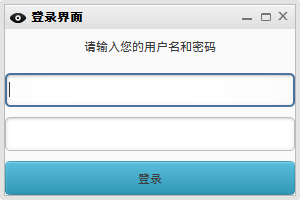
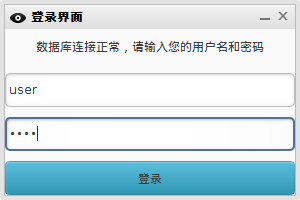
增加截图，整理UI

diff --git a/src/com/student/sb/ui/Main.java b/src/com/student/sb/ui/Main.java
@@ -1,16 +1,118 @@
 package com.student.sb.ui;
 
+import java.awt.FlowLayout;
+import java.awt.GridLayout;
+import java.awt.event.ActionEvent;
+import java.awt.event.ActionListener;
+
+import javax.swing.JButton;
+import javax.swing.JLabel;
+import javax.swing.JPanel;
+import javax.swing.JPasswordField;
+import javax.swing.JTextField;
+
+import org.jb2011.lnf.beautyeye.ch3_button.BEButtonUI;
+import org.jb2011.lnf.beautyeye.ch6_textcoms.BEPasswordFieldUI;
+import org.jb2011.lnf.beautyeye.ch6_textcoms.BETextFieldUI;
+
 /*
  * 学生信息管理系统的主界面
  */
-public class Main extends BaseJFrame {
+public class Main extends BaseJFrame implements ActionListener {
+
+	private JTextField jtf;
+	private JTextField jtf2;
+	private JTextField jtf3;
+	private JTextField jtf4;
 
 	public Main() {
 		this.setTitle("User--学生信息管理系统的主界面");
 		this.setBounds((getScreenWidth() - 600) / 2,
 				(getScreenHeight() - 400) / 2, 600, 400);
-		
+
+		getContentPane().setLayout(new GridLayout(6, 1, 10, 10));
+
+		JLabel jlabel = new JLabel("可以根据学号查询信息", JLabel.CENTER);
+		JLabel jlabel1 = new JLabel("学号：");
+		JLabel jlabel2 = new JLabel("姓名：");
+		JLabel jlabel3 = new JLabel("电话：");
+		JLabel jlabel4 = new JLabel("班级：");
+
+		jtf = new JTextField(27);
+		jtf2 = new JTextField(27);
+		jtf3 = new JTextField(27);
+		jtf4 = new JTextField(27);
+		BETextFieldUI.createUI(jtf);
+		BETextFieldUI.createUI(jtf2);
+		BETextFieldUI.createUI(jtf3);
+		BEPasswordFieldUI.createUI(jtf4);
+
+		JPanel panNum = new JPanel(new FlowLayout());
+		panNum.add(jlabel1);
+		panNum.add(jtf);
+
+		JPanel panName = new JPanel(new FlowLayout());
+		panName.add(jlabel2);
+		panName.add(jtf2);
+
+		JPanel panPhone = new JPanel(new FlowLayout());
+		panPhone.add(jlabel3);
+		panPhone.add(jtf3);
+
+		JPanel panClass = new JPanel(new FlowLayout());
+		panClass.add(jlabel4);
+		panClass.add(jtf4);
+
+		JButton button = new JButton("查询");
+
+		button.setUI(new BEButtonUI()
+				.setNormalColor(BEButtonUI.NormalColor.lightBlue));
+
+		JButton buttonAdd = new JButton("增加");
+
+		buttonAdd.setUI(new BEButtonUI()
+				.setNormalColor(BEButtonUI.NormalColor.lightBlue));
+
+		JButton buttonDel = new JButton("删除");
+
+		buttonDel.setUI(new BEButtonUI()
+				.setNormalColor(BEButtonUI.NormalColor.lightBlue));
+
+		JButton buttonUpdate = new JButton("修改");
+
+		buttonUpdate.setUI(new BEButtonUI()
+				.setNormalColor(BEButtonUI.NormalColor.lightBlue));
+
+		button.addActionListener(this);
+		buttonAdd.addActionListener(this);
+		buttonDel.addActionListener(this);
+		buttonUpdate.addActionListener(this);
+
+		JPanel panButton = new JPanel(new FlowLayout());
+		panButton.add(button);
+		panButton.add(buttonAdd);
+		panButton.add(buttonDel);
+		panButton.add(buttonUpdate);
+
+		getContentPane().add(jlabel);
+		getContentPane().add(panNum);
+		getContentPane().add(panName);
+		getContentPane().add(panPhone);
+		getContentPane().add(panClass);
+		getContentPane().add(panButton);
 		this.setVisible(true);
+	}
+
+	@Override
+	public void actionPerformed(ActionEvent e) {
+		if (e.getActionCommand().equals("")) {
+
+		} else if (e.getActionCommand().equals("")) {
+
+		} else if (e.getActionCommand().equals("")) {
+
+		}
+
 	}
 
 }

diff --git a/src/com/student/sb/entity/User.java b/src/com/student/sb/entity/User.java
@@ -1,0 +1,50 @@
+package com.student.sb.entity;
+
+public class User {
+	public int getId() {
+		return id;
+	}
+
+	public void setId(int id) {
+		this.id = id;
+	}
+
+	public String getUsername() {
+		return username;
+	}
+
+	public void setUsername(String username) {
+		this.username = username;
+	}
+
+	public String getNickname() {
+		return nickname;
+	}
+
+	public void setNickname(String nickname) {
+		this.nickname = nickname;
+	}
+
+	public String getPwd() {
+		return pwd;
+	}
+
+	public void setPwd(String pwd) {
+		this.pwd = pwd;
+	}
+
+	public String getPhone() {
+		return phone;
+	}
+
+	public void setPhone(String phone) {
+		this.phone = phone;
+	}
+
+	public int id;
+	public String username;
+	public String nickname;
+	public String pwd;
+	public String phone;
+
+}

diff --git a/src/com/student/sb/ui/Login.java b/src/com/student/sb/ui/Login.java
@@ -20,10 +20,11 @@ public class Login extends BaseJFrame implements ActionListener{
 		this.setTitle("登录界面");
 		this.setBounds((getScreenWidth() - 300) / 2,
 				(getScreenHeight() - 200) / 2, 300, 200);
+		this.setResizable(false);
 
 		getContentPane().setLayout(new GridLayout(4, 1, 10, 10));
 
-		JLabel jlabel = new JLabel("请输入您的用户名和密码", JLabel.CENTER);
+		JLabel jlabel = new JLabel("数据库连接正常，请输入您的用户名和密码", JLabel.CENTER);
 		jtfuser = new JTextField();
 		jtfpass = new JPasswordField();
 		jtfpass.addActionListener(this);

diff --git a/src/com/student/sb/entity/Student.java b/src/com/student/sb/entity/Student.java
@@ -2,7 +2,15 @@ package com.student.sb.entity;
 
 public class Student {
 	public String name;
+	public String collage;
+	public String grade;
+	public String sclass;
 	public String telphone;
 	public String address;
+	public String sex;
+	public String native_palce;
+	public String nation;
+	public String reward;
+	public String dorm;
 
 }

diff --git a/src/com/student/sb/ui/SqlInit.java b/src/com/student/sb/ui/SqlInit.java
@@ -127,7 +127,7 @@ public class SqlInit extends BaseJFrame {
 		// 测试是否能连接数据库，连接不上则显示数据库界面
 		try {
 			SqlUtils.isConnectSql();
-			Login mJframe = new Login();
+			Main mJframe = new Main();
 		} catch (Exception e) {
 			SqlInit sqlInit = new SqlInit();
 			e.printStackTrace();

diff --git a/src/com/student/sb/utils/PropertiesUtils.java b/src/com/student/sb/utils/PropertiesUtils.java
@@ -45,6 +45,7 @@ public class PropertiesUtils {
 			props.setProperty("DB_USER", User);
 			props.setProperty("DB_PASSWORD", Pass);
 			props.store(fos, "Update" + add + "is" + Port + User);
+			fos.flush();
 			in.close();
 			fos.close();
 			props.clear();

diff --git a/src/com/student/sb/utils/SqlUtils.java b/src/com/student/sb/utils/SqlUtils.java
@@ -33,7 +33,7 @@ public class SqlUtils {
 
 	}
 
-	public void closeConn() {
+	public static void closeConn() {
 		try {
 			conn.close();
 		} catch (SQLException e) {

diff --git a/README.md b/README.md
@@ -5,11 +5,11 @@
 
 此处应该有图片。
 
+![](screenshot/Screenshot3.png)
+
 ![](screenshot/Screenshot1.png)
 
 ![](screenshot/Screenshot2.png)
-
-论打码技术的优雅性，以及避免PS色阶突破、隐写术。
 
 ##功能
 
@@ -28,7 +28,7 @@
 
 可以使用git clone命令下载源码。
 
-	git clone www.git
+	git clone https://github.com/DigDream/SIMS.git
 
 也可通过launchpad直接下载
 
@@ -37,6 +37,45 @@
 ##安装及使用
 
 双击可执行文件，或者根据源码进行编译。
+
+编辑.properties文件，将数据库连接信息填入文件。
+
+数据库表段：
+
+	DROP TABLE IF EXISTS `user`;
+	CREATE TABLE `user_table` (
+	  `id` bigint(20) NOT NULL AUTO_INCREMENT,
+	  `user` varchar(20) NOT NULL,
+	  `pw` varchar(50) NOT NULL,
+	  `name` varchar(20) NOT NULL,
+	  `phone` varchar(20) NOT NULL,
+	  KEY `id` (`id`)
+	) ENGINE=MyISAM AUTO_INCREMENT=912 DEFAULT CHARSET=utf8;
+	
+	DROP TABLE IF EXISTS `software`;
+	CREATE TABLE `software` (
+	  `id` bigint(20) NOT NULL AUTO_INCREMENT,
+	  `collage` varchar(25) DEFAULT NULL,
+	  `grade` varchar(10) DEFAULT NULL,
+	  `class` varchar(10) DEFAULT NULL,
+	  `student_id` varchar(12) DEFAULT NULL,
+	  `name` varchar(12) DEFAULT NULL,
+	  `sex` varchar(5) DEFAULT NULL,
+	  `nation` varchar(7) DEFAULT NULL,
+	  `phone` varchar(12) DEFAULT NULL,
+	  `dorm` varchar(8) DEFAULT NULL,
+	  `politics` varchar(12) DEFAULT NULL,
+	  `identity_id` varchar(21) DEFAULT NULL,
+	  `home_phone` varchar(36) DEFAULT NULL,
+	  `zip` varchar(10) DEFAULT NULL,
+	  `address` varchar(90) DEFAULT NULL,
+	  `native_palce` varchar(59) DEFAULT NULL,
+	  `family_backgrond` varchar(250) DEFAULT NULL,
+	  `reward` varchar(250) DEFAULT NULL,
+	  `other` varchar(250) DEFAULT NULL,
+	  `duty` varchar(25) NOT NULL,
+	  PRIMARY KEY (`id`)
+	) ENGINE=MyISAM AUTO_INCREMENT=1099 DEFAULT CHARSET=utf8;
 
 双击之后，填写数据库连接信息后，会弹出帐号登录的对话框，测试帐号为test，密码为test。
 

diff --git a/DesignDoc.md b/DesignDoc.md
@@ -83,6 +83,8 @@ utils放一些工具类，
 
 只能读取到源文件夹，或者是类文件夹，在打包部署时需要注意。
 
+文件流为PropertiesUtils.class.getClassLoader().getResource(PROPERTIES_FILE_NAME);
+
 0x02 如何使用java注解
 
 0x03 properties文件写入权限

diff --git a/LearnDoc.md b/LearnDoc.md
@@ -1,0 +1,3 @@
+#可以通过本项目学到的知识
+##0x01 Properties配置信息
+利用java的Properties进行配置信息
